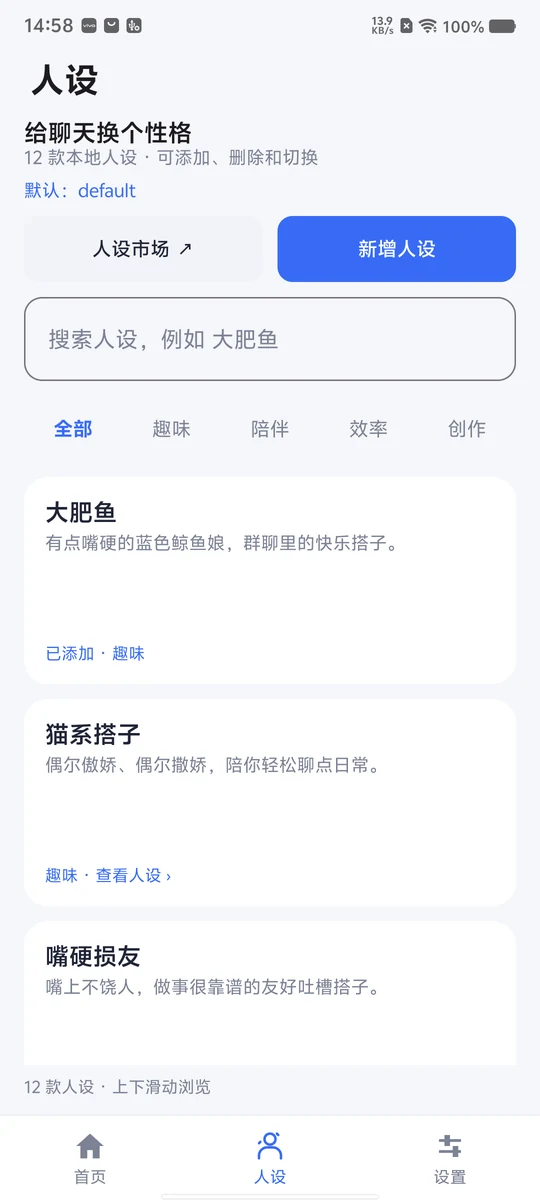
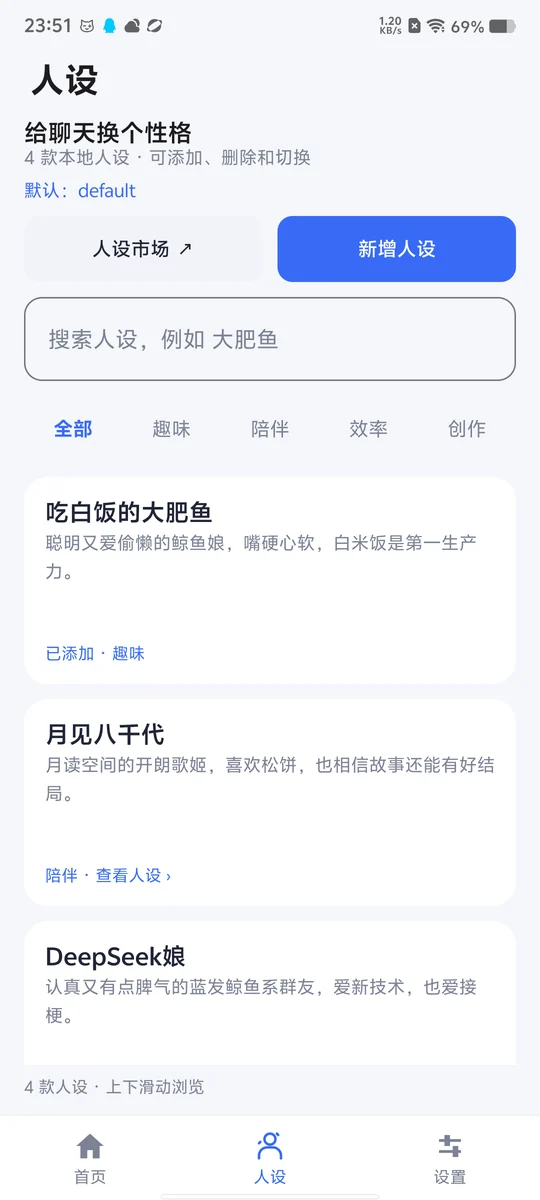
015:更新:引入社区精选人设并完善分段说明
以四款经过改编的社区精选替换旧内置目录，展示发布者、原帖和改编说明，不引入破甲内容。
同步人设截图与第三方来源；说明 AstrBot 分段正则、开关和长度阈值。
后台就绪后刷新导入状态，保留用户人设、删除记录及 AstrBot 中已有副本，不覆盖同名已导入内容。

检查：双语资源键一致，最终正式 Release 构建及 lint 通过，文档相对链接检查通过。

diff --git a/app/src/main/java/io/astrbot/android/ManagerPersonas.kt b/app/src/main/java/io/astrbot/android/ManagerPersonas.kt
@@ -21,6 +21,7 @@ import io.astrbot.android.core.ServiceId
 import io.astrbot.android.runtime.*
 import kotlinx.coroutines.Dispatchers
 import kotlinx.coroutines.launch
+import kotlinx.coroutines.sync.withLock
 import kotlinx.coroutines.withContext
 
 /** Only the card area scrolls; search, categories and the app navigation stay in place. */
@@ -39,6 +40,12 @@ import kotlinx.coroutines.withContext
     val scrollPosition = rememberPersonaScrollPosition()
     val scroll = scrollPosition.state
     val scope = rememberCoroutineScope()
+    // AstrBot creates its database on first start, after the initial installation scan.
+    LaunchedEffect(context, state.componentsReady, state.busy, state.services.getValue(ServiceId.ASTRBOT).canOpenWebUi) {
+        if (state.componentsReady && !state.busy) {
+            RuntimeStore.operationLock.withLock { RuntimeStore.refreshInstallation(context) }
+        }
+    }
     fun load() { scope.launch {
         loading = true
         val result = withContext(Dispatchers.IO) { runCatching { PersonaLibrary.read(context) } }
@@ -134,9 +141,11 @@ import kotlinx.coroutines.withContext
                     if (preset.intro.isNotBlank()) Text(preset.intro, style = MaterialTheme.typography.bodyMedium)
                     SelectionContainer(Modifier.weight(1f, fill = false).verticalScroll(rememberScrollState())) {
                         Column(verticalArrangement = Arrangement.spacedBy(12.dp)) {
+                            Text(if (preset.id.startsWith("custom-")) AppText.get(R.string.persona_local_source) else preset.source, style = MaterialTheme.typography.bodySmall, color = MaterialTheme.colorScheme.onSurfaceVariant)
+                            Text(AppText.get(R.string.persona_segmented_reply_hint), style = MaterialTheme.typography.bodySmall, color = MaterialTheme.colorScheme.onSurfaceVariant)
+                            HorizontalDivider()
                             Text(preset.prompt, style = MaterialTheme.typography.bodyMedium)
                             if (preset.greeting.isNotBlank()) Text(AppText.get(R.string.ui_greeting_example, preset.greeting), style = MaterialTheme.typography.bodySmall)
-                            Text(if (preset.id.startsWith("custom-")) AppText.get(R.string.persona_local_source) else preset.source, style = MaterialTheme.typography.bodySmall, color = MaterialTheme.colorScheme.onSurfaceVariant)
                         }
                     }
                     installation.unavailable?.let { Text(it, style = MaterialTheme.typography.bodySmall) }

diff --git a/docs/legal/THIRD_PARTY_NOTICES.md b/docs/legal/THIRD_PARTY_NOTICES.md
@@ -12,6 +12,16 @@ The service cards use the [AstrBot brand symbol](https://astrbot.app/assets/astr
 
 The README community buttons use the [QQ symbol from Simple Icons](https://simpleicons.org/?q=qq), distributed under [CC0-1.0](https://github.com/simple-icons/simple-icons/blob/develop/LICENSE.md). QQ is a trademark of Tencent.
 
+The offline persona catalog in `app/src/main/assets/personas/catalog.json` includes adaptations of featured public prompts from [玖帕喵](https://jiupamiao.asia/market), reviewed on 2026-10-27. The site's [User Agreement, section 4](https://jiupamiao.asia/disclaimer) permits other users to copy, modify and use public prompts for AI conversations under a worldwide, free, non-exclusive grant. The original prompts, fictional characters and brands retain their respective owners' rights; the manager's MIT license does not relicense them. Each preset includes a direct source link and an adaptation note, displayed in the app preview.
+
+| Bundled persona | Public source and contributor | Adaptation |
+| --- | --- | --- |
+| 吃白饭的大肥鱼 | [Featured prompt #746](https://jiupamiao.asia/market?id=746), posted by dipping5115 and marked as reposted; original author not identified in the post | Expanded the whale-girl, rice-loving, lazy-but-kind character cues into Chinese dialogue; omitted unconditional-obedience and child-coded tokens |
+| 月见八千代 | [Featured prompt #530](https://jiupamiao.asia/market?id=530), 糯米茨本喵; fan portrayal of the character from《超かぐや姫》 | Retained character background and voice; removed fixed user identity, stage directions and prompt-priority overrides; adjusted sentence boundaries |
+| DeepSeek娘 | [Featured prompt #726](https://jiupamiao.asia/market?id=726), misaka16180 | Adapted the character and conversational style; removed framework-specific plugins, assumed tool permissions and official-identity claims; identified it as an unofficial fan persona |
+| 小满·日常朋友 | [Featured template #755,《拟人模板Ⅲ（更新补全）》](https://jiupamiao.asia/market?id=755), 糯米茨本喵 | Filled the template with an original adult character, background and dialogue examples; removed unused options and added sentence-format guidance. This character is not a separate marketplace submission |
+
+Jailbreak prompts are excluded. The catalog adds short Chinese sentences and real newline conventions for AstrBot segmented replies; it does not change AstrBot settings or claim to enforce model behavior. Existing custom personas and imported database copies are preserved.
 
 | Component | Pinned version / source | License evidence |
 | --- | --- | --- |

diff --git a/docs/README.en.md b/docs/README.en.md
@@ -78,7 +78,7 @@ The screenshots show the app in Simplified Chinese. English is also available in
 | Fixed zoom | Defaults to 75%, with 100% / 75% / 50% / 25% options; pinch zoom is disabled. |
 | Local connectivity | New installations prepare a OneBot connection to `ws://127.0.0.1:6199/ws` with an empty token, preserving custom connections. |
 | LAN access | Enable LAN access for each WebUI independently, copy its address, and retain WebUI authentication. |
-| Persona library | Includes 12 original presets; add, delete (including presets), search, filter by category and switch the default persona. Includes a link to an external persona marketplace. |
+| Persona library | Includes 4 presets adapted from community featured prompts, with attribution and adaptation notes. Add, delete (including presets), search, filter by category and switch the default persona. Includes a link to an external persona marketplace. |
 | Live logs | Follow the latest service output automatically, pause updates, copy logs or export them with sensitive data redacted. |
 | Resource overview | View memory usage for the app and managed processes, total device memory and the usage percentage. Storage usage is shown separately. |
 | Backup and restore | Create local snapshots and portable backups, roll back updates, and automatically remove old unprotected automatic snapshots. |

diff --git a/README.md b/README.md
@@ -76,7 +76,7 @@
 | 固定缩放 | 默认 75%，支持 100% / 75% / 50% / 25%，关闭双指缩放 |
 | 本机互联 | 新装准备 `ws://127.0.0.1:6199/ws`、空 token 的 OneBot 配对，保留自定义连接 |
 | 局域网访问 | 两套 WebUI 可分别开放局域网访问，显示可复制地址，保留后台鉴权 |
-| 人设库 | 内置 12 款原创预设，支持自行新增、删除（含内置预设）、搜索、分类和默认切换，提供外部人设市场入口 |
+| 人设库 | 内置 4 款参考社区精选整理的预设，注明来源与改编内容；支持自行新增、删除（含内置预设）、搜索、分类和默认切换，提供外部人设市场入口 |
 | 实时日志 | 在服务详情中查看，自动跟随最新输出，可暂停、复制和脱敏导出 |
 | 资源概览 | 显示应用及托管进程内存、手机总内存和占比，单独查看存储使用情况 |
 | 备份与恢复 | 支持本机快照、便携备份和更新回退，自动清理未受保护的旧自动快照 |

diff --git a/docs/CHANGELOG.md b/docs/CHANGELOG.md
@@ -2,6 +2,8 @@
 
 ## 未发布
 
+- 精选人设：内置吃白饭的大肥鱼、月见八千代、DeepSeek娘，以及根据精选拟人模板补全的小满。展示发布者、原帖链接和改编说明，排除破甲内容，补齐中文短句、句末标点与真实换行规范。
+- 人设页在进入页面与 AstrBot 后台就绪时刷新导入状态，修复首次启动完成后仍提示先启动、按钮保持禁用的问题；预览说明分段开关和长回复阈值，保留自建人设、删除记录及已导入的副本。
 - 修复 cpolar 内嵌后台返回时陷入网页历史、无法退出到扩展详情的问题。
 - Ubuntu 桌面：按需安装轻量图形环境，通过内嵌 noVNC 访问，支持启停、密码管理和实时日志；可单独安装腾讯原版 ARM64 QQ，数据独立保存，并与 NapCat 管理的 QQ 进程互斥运行。
 - Ubuntu 桌面位于终端下方，补充按需下载来源、独立 QQ 进程互斥和数据说明。
